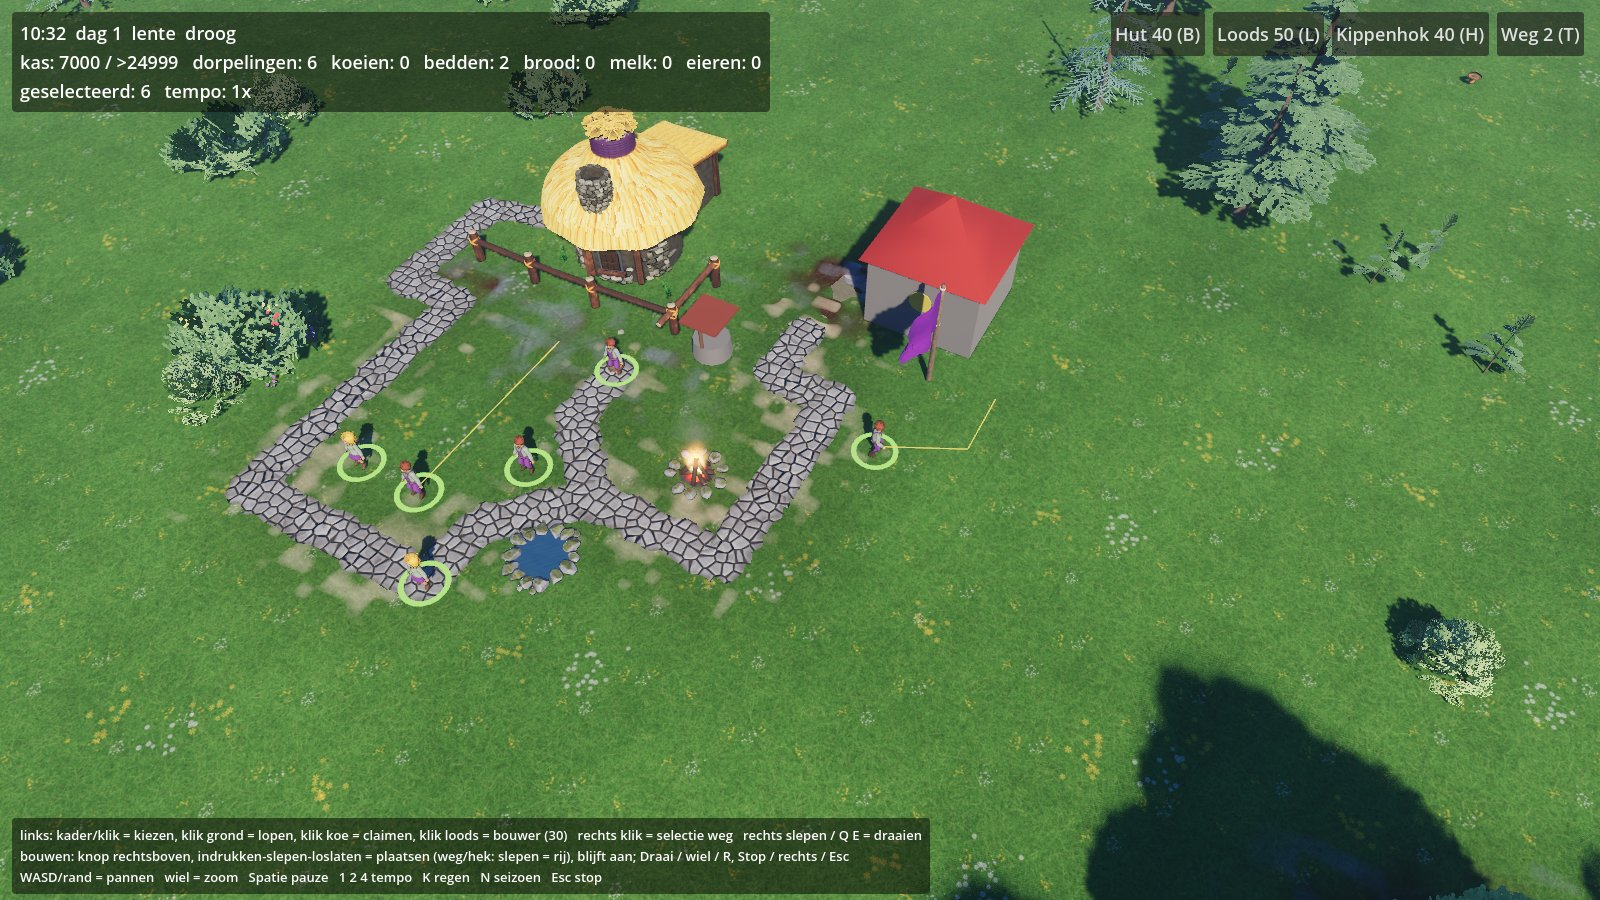
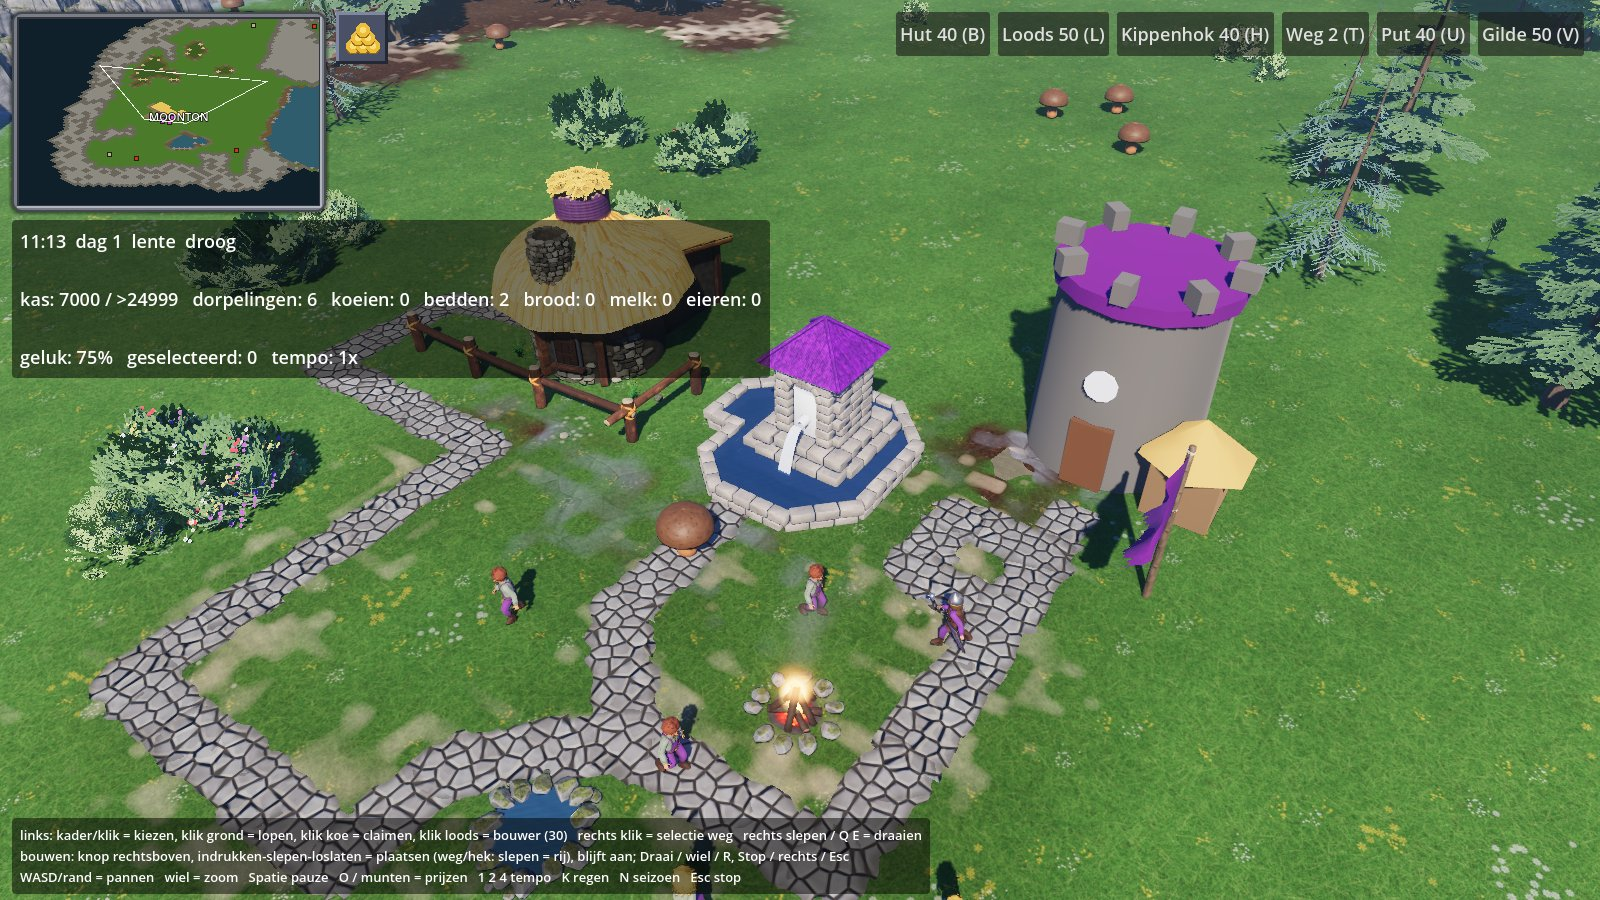
Beasts & Bumpkins-remake: missie 2/3 bijgewerkt in missies.md, map3.md en TODO, frames wolf/soldaat/put
Bruine koepel in het M2-wolfframe = paddenstoel (klasse 83) op de koetegel.
Wezens M3: sex 23 wolf, 29 donkere wolf, 24 wesp (hover_names.json).

Claude-Session: https://claude.ai/code/session_0151pWCWHCzH6TWJgc2h9cMZ

diff --git a/TODO.md b/TODO.md
@@ -7,7 +7,7 @@ want die kunnen alleen op een telefoon of emulator opgenomen worden.
 
 Beasts & Bumpkins-remake (`docs/beasts-bumpkins-remake/`, stand in de README daar; originele data lokaal in `lokaal/`, niet in git):
 
-0. ⚠ **Onafgemaakt werk in de werkmap (2026-10-30, 5 agents gestopt op budget, niets gecommit, niet getest):** M2-gameplay (dorpelingen gezondheid/dood, wolven bijten/doden, kinderen vluchten, wolf-respawn, levensloop baby>kind>volwassene>oudere>dood, kas-beloningen uit de MIS; was bij wolf_test), M3-gameplay (voetvolkgilde: soldaat worden, max 6, zwaardvechten, put, tweede kelkregel +6.000; was bij frames), assets (wolf + donkere wolf, voetvolkgilde v3, voetsoldaat; typfout in `koepel`), APK (gecommit; Mobile/Vulkan op de emulator zwart na 3 pogingen, Compatibility-rooktest met `--mist=uit` speelt wel; nu de Motorola: zie `mobiel.md` "Stand APK"). Alle wijzigingen staan door elkaar in `spel/` (`git status`): eerst alle tests draaien, fouten herstellen, dan per onderwerp committen. Klaar gekomen na het stoppen: voetsoldaat-model (`15e8329`) en wolf + donkere wolf (`cc44598`; donkere wolf nog niet in de sim: `Wolf.soort` ontbreekt, M3 13/29 of 14/24; doodpose matig; in het M2-wolfframe een bruine koepel boven de koe, herkomst onbekend). Prijzen/geluk/misdaad is gecommit (prijzenscherm, `--scenario=prijzen`, `test/economie_test.gd`); het leunt op `Dorpeling.geluk/raak/sterf` uit het ongecommitte M2-werk, dus HEAD laadt pas weer als `sim/dorpeling.gd` + `sim/leven.gd` erbij zijn. Nog geen missie met `misdaad.aan` (origineel M13), geen straf-schuiven per misdaad. Open vragen gebruiker: minikaartkader beoordelen tijdens spelen.
+0. ⚠ **Onafgemaakt werk in de werkmap (2026-10-30, 5 agents gestopt op budget, niets gecommit, niet getest):** M2- en M3-gameplay is gecommit (`35b8b3d`: leven/dood, wolven bijten, vluchten, levensloop, kas-beloningen, voetvolkgilde max 6, zwaard, put + dorst, donkere wolf = sex 29; sex 24 is een wesp, nog als wolf; tweede kelkregel +6.000 vuurt bewust niet; dorst verlengt het leven nog niet; frames `missie2_wolf.jpg`, `missie3_soldaat.jpg`, `missie3_put.jpg`), assets (wolf + donkere wolf, voetvolkgilde v3, voetsoldaat; typfout in `koepel`), APK (gecommit; Mobile/Vulkan op de emulator zwart na 3 pogingen, Compatibility-rooktest met `--mist=uit` speelt wel; nu de Motorola: zie `mobiel.md` "Stand APK"). Alle wijzigingen staan door elkaar in `spel/` (`git status`): eerst alle tests draaien, fouten herstellen, dan per onderwerp committen. Klaar gekomen na het stoppen: voetsoldaat-model (`15e8329`) en wolf + donkere wolf (`cc44598`; doodpose matig; de bruine koepel was een paddenstoel (klasse 83, schaal 2,3, bijna mensgroot) onder de scenario-koe). Prijzen/geluk/misdaad is gecommit (prijzenscherm, `--scenario=prijzen`, `test/economie_test.gd`). Nog geen missie met `misdaad.aan` (origineel M13), geen straf-schuiven per misdaad. Open vragen gebruiker: minikaartkader beoordelen tijdens spelen.
 
 1. **Spellogica missie 1** (`spel/sim/`): staat sinds 2026-10-29: bouwen (hut/loods/kippenhok, stapels, hut-glb), kas + prijzen, koe-generator + koeien claimen, gezin (2 bedden per hut, `--scenario=gezin`), winst (6 dorpelingen + 4 eigen koeien) en verlies (<2), HUD-telling en uitslag (`--scenario=claim`). Graan en brood staan (molen + akker, `--scenario=molen`). Melk staat ook (melkerij, `--scenario=melk`; het rieten dak is nog de oude bake). Zelfstandig: bouwen aan open plannen, oogsten, melken, rapen; nacht = hut (2 bedden) of slaapzak bij het kampvuur; zonder opdracht bij het dorp. Bouwmenu groeit (hut/kippenhok/loods -> molen/akker -> melkerij/hek/poort), hek (slepen = rij, bouwers lopen door naar het volgende stuk) en poort (klik = open/dicht) staan; eigen koeien gaan de weide in (poort open) en blijven erin (poort dicht). Wegen ook (kaartpad als keienstrook, weg van elke deur naar het pad, 2 kas per tegel, direct; in beasts-src zijn het bouwklussen van 3 s per vak). Bouwersgilde ook (man + klik op loods = bouwer, 30 kas, 2x bouwen, vecht niet; gele helm als placeholder, eigen bouwer-glb uit concept `bouwer.jpg` open). Eieren ook (kippenhok + 3 kippen, `modellen/dieren/kip.py`, ~6/10 na 3 rondes, `--scenario=kippen`; `ei.glb` nog niet in beeld). Nog open: **zaagclip** naast de hamerclip. Gezin: de deurtegel ligt ~3,5 m van de echte voordeur (voetafdruk 4x4 blokkeert, en het hek van de hut-glb staat ervoor), dus ze verdwijnen een stukje voor de deur; een opening in het hek of een looppad naar binnen is open. ⚠ Startvolk is al 6, dus de winst hangt nu alleen aan de koeien; of het origineel kinderen meetelt is niet nagekeken. Niet door mij gespeeld, alleen headless/frames.
 2. **Modellen in het spel**: de zes personages staan erin (2026-10-29, `Bumpkin.glb_voor`; sex 13 = jongen, 14 = meisje aangenomen). Loods en kippenhok staan in het bouwmenu (2026-10-29). Nog: molen, melkerij (`modellen/gebouwen/`), koe met `koe_vacht.gdshader`. Eerst het rieten dak van melkerij en kippenhok opnieuw bakken (dakschil niet als bakbron; nu bruin met strepen).

diff --git a/docs/beasts-bumpkins-remake/map3.md b/docs/beasts-bumpkins-remake/map3.md
@@ -10,17 +10,20 @@ Laden: `--missie=3`; test `test/missie3_test.gd`.
 | Rand | 382 randtegels: rots 84 %, water 14 %, bos 3 % (map2.md tabel 3). Buiten = zwart (mist), geen zee |
 | Bereikbaar | omhullende vanaf het kampvuur (59,10)..(137,112); geen bereikbare tegel raakt leeg (`RAND_DICHT`, test) |
 | Dorp | kampvuur (102,82), vlag (104,79), bron (101,84); hut (98,80), put (101,80), voetvolkgilde (103,77) |
-| Dorpelingen | 3 m, 2 v, 1 krijger type 7 (Pigsy): krijger = gewone volwassen man (`sex` 7) |
-| Wezens | 7, eigenaar 4: 4x 13/23 (wolf), 2x 13/29 en 1x 14/24: alle zeven als `Wolf` |
+| Dorpelingen | 3 m, 2 v, 1 krijger type 7 (Pigsy) = voetsoldaat, lid van het voorgebouwde gilde |
+| Wezens | 7, eigenaar 4: 4x sex 23 (wolf), 2x 29 (donkere wolf), 1x 24 (wesp, (127,78)); `hover_names.json` (BBTools) |
 | Generators | 2 (83,32) en (105,109), spawnen koeien; `koe_generator` geldt per generator |
 | Voorwerpen | gouden kelk (96,18), naast twee wolven (97,17/18); 6 goud, 1 drankje |
 | Missie | kas 7.000; winst kas > 24.999 (`cash>`) of kelk naar de vlag (conditie 12); verlies < 2 |
 
 ## Placeholder / nog niet
 
-- **Gouden kelk**: staat als object (gouden blokbeker), nog niet op te rapen. Doel is nu alleen de kas; de kelk-route
-  sluit aan op het algemene "voorwerp naar de vlag" (`spel.json` `_doel_kelk`).
-- **Put** en **voetvolkgilde**: blok-placeholders (`view/props.gd`), blokkeren hun tegel(s), geen gedrag, niet
-  bouwbaar. Gildelimiet 6 en gildeleden ontbreken.
-- **Wolfsoorten** 13/29 en 14/24: wat ze in het origineel zijn is niet nagekeken; nu dezelfde wolf.
+- **Gouden kelk**: op te rapen, naar de vlag = +7.000 (`sim/voorwerpen.gd`); de tweede regel (+6.000) vuurt niet
+  (eigen keuze, `spel.json` `_doel_kelk`).
+- **Put** (2026-10-30): voorgebouwd Plan 3x3 (`bron.glb`) en bouwbaar vanaf M3 (40 kas); dorst > 90 s = gratis water
+  halen (2 s). Effect op de levensduur nog niet.
+- **Voetvolkgilde**: voorgebouwd 3x3, niet over vlag of kampvuur, bouwbaar vanaf M3 (50); man + klik op het gilde =
+  voetsoldaat (30 kas, max 6 per gilde, hint 3-5), zwaard (`prop_zwaard`, schade 6, slag 0,8 s, bereik 1,5), boert
+  niet, valt wolven binnen 8 tegels zelf aan. Gebouw nog een blok uit `view/props.gd` (glb half, `modellen/gebouwen/`).
+- **Donkere wolf** (sex 29): `Wolf.soort = &"donkere_wolf"` (eigen glb), zelfde gedrag. **Wesp** (24): nog een gewone wolf.
 - Hut: voorgebouwd als afgebouwd Plan, draai vrij gekozen (deur bij het pad).

diff --git a/docs/beasts-bumpkins-remake/missies.md b/docs/beasts-bumpkins-remake/missies.md
@@ -171,7 +171,15 @@ dorpelingen (4 x type 1, 4 x type 2, 2 x type 13: geen meisje), **4 eigen koeien
 de kleine "vlekken" in het gras zijn bosjes met overgangsranden (tex 115-130).
 Wolven (2026-10-30, `spel/sim/wolf.gd`): zwerven rond hun startplek, jagen op koeien (wild of eigen) en eten ze op; een koe in een weide
 achter een dichte poort halen ze niet ("omheining helpt"). Volwassenen (niet de bouwer) gooien stenen op bevel (klik op de wolf) of zelf
-als een wolf vlakbij jaagt. Kinderen en baby's pakken (origineel) komt later (gameplay.md 7: "baby's als moeilijkheid later").
+als een wolf vlakbij jaagt.
+**Leven (2026-10-30, `spel/sim/leven.gd`, spel.json `leven`).** **Besluit gebruiker:** wolven pakken geen kinderen weg maar
+bijten dorpelingen (ook kinderen) en kunnen ze doden. Gezondheid 24, beet 5 met 3 s pauze, prooikeuze afstand x voorkeur
+(kind 0,6, koe/oud 0,8, volwassen 1,3) x zwakte; herstel na 20 s. Kind, oudere, bouwer en gewonde vluchten. Levensloop baby >
+kind > volwassene > oudere (vanaf 0,75 x levensduur, model `bumpkin_oudere_*`, werkt en vecht niet) > dood; levensduur
+4.320-5.400 s (4-5 jaar), start 0-0,7. Dode valt om, ligt 40 s. Kas-beloningen (`sim/beloningen.gd`): M2 4x timer 6.480
+tikken +1.000, eigen keuze na elkaar. Wolf-generators per missie (`wolf_generator`; M2 heeft er geen). Alle getallen eigen keuze.
+Test `spel/test/wolf_test.gd`. De "bruine koepel" in `wolf_model.jpg` was een paddenstoel (klasse 83, schaal 2,3) op de koetegel
+van het wolf-scenario; de koe staat nu ernaast (`spel/screenshots/missie2_wolf.jpg`). Frames M3: `missie3_dorp.jpg`, `missie3_soldaat.jpg`, `missie3_put.jpg`.
 
 **Prijzen, geluk en misdaad (2026-10-30).** **Besluit gebruiker:** misdaad en de straf-schuiven per misdaad pas vanaf M13 (met de gevangenis), zoals het origineel. Origineel: goudicoon in de bovenbalk (MIS1-10) opent `STATS.MFB` (`lokaal/bb_original/stats.png`):
 een schuif per waar (eieren, water, brood, melk, cider, kerk, belasting) van weinig munten naar een stapel goud, daaronder per misdaad
